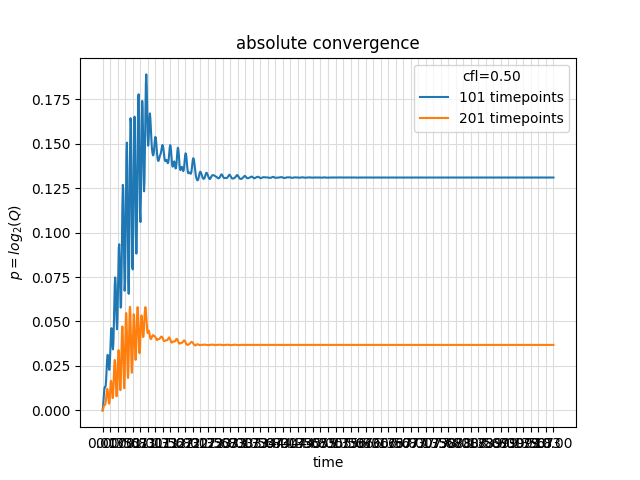
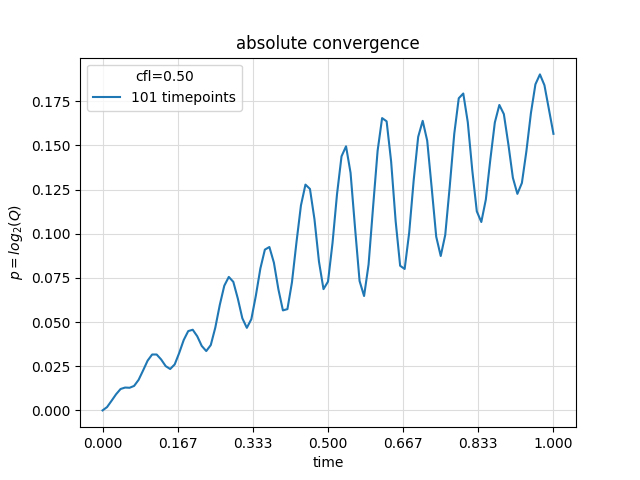
test_convergence_for_open

Changed region(s): [[0.0312, 0.125, 0.9062, 0.9375], [0.0312, 0.75, 0.125, 0.7812]]

diff --git a/python/waveconvergence_2.py b/python/waveconvergence_2.py
@@ -61,20 +61,20 @@ def abs_convergence(ana,num1,num2):
 
 #---------------main function -------------------------------------------
 
-def convergence_test(cfl,Nt,bc,endT=1,endX=1):
+def convergence_test(cfl,Nt,bc,funchandle,endT=1,endX=1):
     Nx = int(cfl*Nt/endT)
 
     # num1
-    dt,timevalues,dx,xvalues = gridmaker(endT, Nt, endX, Nx)
+    dt,timevalues,dx,xvalues = gridmaker1(endT, Nt, endX, Nx)
     # print('xvalues\n',xvalues)
     potential = zero_potential(xvalues)
-    Phi0, Pi0 = IVmaker('gauss',xvalues,1,1,1,1)
+    Phi0, Pi0 = IVmaker(funchandle,xvalues,1,1,1,1)
     Phi, Pi = wave_evolution1D(Phi0,Pi0,timevalues,xvalues,bc,potential)
     num1 = Phi[0::1]
     # print('num1(t=0):\n',num1[0])
     # print('timevalues:\n', timevalues )
-    print('timevalue for t=1', timevalues[int(Nt/endT)] )
-    print('num1(t= ',timevalues[int(Nt/endT)],' ):\n',num1[int(Nt/endT)])
+    # print('timevalue for t=1', timevalues[int(Nt/endT)] )
+    # print('num1(t= ',timevalues[int(Nt/endT)],' ):\n',num1[int(Nt/endT)])
     # print('shape(num1): ', np.shape(num1))
     # # print('shape(timevalues1): ',np.shape(timevalues[0::1]))
     # print('timevalues1:', timevalues)
@@ -86,19 +86,19 @@ def convergence_test(cfl,Nt,bc,endT=1,endX=1):
             ana[i,j] = sine_12_pi(xvalues[j],timevalues[i])
 
     # num 2
-    dt,timevalues,dx,xvalues = gridmaker(endT, 2*Nt, endX, 2*Nx)
+    dt,timevalues,dx,xvalues = gridmaker1(endT, 2*Nt, endX, 2*Nx)
     potential = zero_potential(xvalues)
-    Phi0, Pi0 = IVmaker('sine4',xvalues,1,1,1,1)
-    Phi, Pi = wave_evolution1D(Phi0,Pi0,timevalues,xvalues,bc,potential)
+    Phi0, Pi0 = IVmaker(funchandle,xvalues,1,1,1,1)
+    Phi, Pi = wave_evolution1D(Phi0,Pi0,timevalues,xvalues,bc,potential,)
     num2 = Phi[0::2,0::2]
     # print('shape(num2): ', np.shape(num2))
     # # print('shape(timevalues2): ',np.shape(timevalues[0::2]))
     # print('timevalues2:\n', timevalues)
 
     # num3
-    dt,timevalues,dx,xvalues = gridmaker(endT, 4*Nt, endX, 4*Nx)
+    dt,timevalues,dx,xvalues = gridmaker1(endT, 4*Nt, endX, 4*Nx)
     potential = zero_potential(xvalues)
-    Phi0, Pi0 = IVmaker('sine4',xvalues,1,1,1,1)
+    Phi0, Pi0 = IVmaker(funchandle,xvalues,1,1,1,1)
     Phi, Pi = wave_evolution1D(Phi0,Pi0,timevalues,xvalues,bc,potential)
     num3 = Phi[0::4,0::4]
     # print('shape(num2): ', np.shape(num2))
@@ -110,17 +110,18 @@ def convergence_test(cfl,Nt,bc,endT=1,endX=1):
 
 if __name__ == "__main__":
     cfl = 0.5
-    endT = 10
+    endT = 1
     endX = 1
-    tests = 5
-    bc = 'periodic'
+    tests = 1
+    bc = 'open_iii'
     Nt_step = 100
     k = 0         # k+Nt_step: starting value for Nts
     Nt = np.linspace(endT*(k+Nt_step),endT*(k+Nt_step*tests),tests)
     selfQs = []
     absQs = []
+    fhandle = "sine4"
     for i in range(len(Nt)):
-        selfQ, absQ = convergence_test(cfl,int(Nt[i]),bc,endT,endX)
+        selfQ, absQ = convergence_test(cfl,int(Nt[i]),bc,fhandle,endT,endX)
         selfQs.append(selfQ)
         absQs.append(absQ)
     fig1 = self_convergence_plotting_2(cfl, Nt, selfQs, endT)

diff --git a/python/solver.py b/python/solver.py
@@ -12,12 +12,12 @@ coeffDict = {2:[1,-2,1],4:[-1/12,4/3,-5/2,4/3,-1/12], 6:[1/90,-3/20,3/2,-49/18,3
 # d Pi / d t = c^2 d^2 phi / d x^2
 
 ### discretize time and space with uniform grid
-def gridmaker(endT,nt,endX,nx,startX=0,startT=0):
+def gridmaker1(endT,nt,endX,nx,startX=0,startT=0):
   dt = (endT-startT)/(nt)
   timevalues = np.linspace(startT,endT,nt+1)
   dx = (endX-startX)/(nx)
   xvalues = np.linspace(startX,endX,nx+1)
-  print('dt = %.2f (%.f points), dx = %.2f (%.f points)' %(dt,nt,dx,nx))
+  print('dt = %.3f (%.f points), dx = %.3f (%.f points)' %(dt,nt,dx,nx))
   return dt,timevalues,dx,xvalues
 
 def gridmaker(endT,maxX,courant=1):
@@ -35,7 +35,7 @@ def gridmaker(endT,maxX,courant=1):
 
 
 
-def wave_evolution1D(phi0,Pi0,timevalues,xvalues,bc,potential,order):
+def wave_evolution1D(phi0,Pi0,timevalues,xvalues,bc,potential,order=2):
   if bc != "periodic" and order != 2:
       print("for this accuracy order we only implemented 'periodic' boundary conditions, results may not be correct.")
   binomcoeffs = coeffDict[order]
@@ -82,10 +82,10 @@ def wave_evolution1D(phi0,Pi0,timevalues,xvalues,bc,potential,order):
       Pi[0] = Pi[2] - 2*phi[1] * deltax/c
       Pi[-1] = Pi[-3] - 2*phi[-2] * deltax/c
     elif bc == "open_iii":         # variant (iii)
-      phi[0] = - deltax*(2*Pi[1] - Pi[2])/c + phi[1]
-      phi[-1] = - deltax*(2*Pi[-2] - Pi[-3])/c + phi[-2]
-      Pi[0] = (phi[0] - phi[1])/deltax
-      Pi[-1] = (phi[-1] - phi[-2])/deltax
+      phi[0] =  - deltax*(2*Pi[1] - Pi[2])/c + phi[1]
+      phi[-1] =  - deltax*(2*Pi[-2] - Pi[-3])/c + phi[-2]
+      Pi[0] =  (phi[0] - phi[1])/deltax #(2 * phi[1] - phi[2])/deltax + Pi[1] #
+      Pi[-1] = (phi[-1] - phi[-2])/deltax # (2 * phi[-2] - phi[-3])/deltax + Pi[-2] # 
 
     # compute second spatial derivative (d^2 phi / dx^2) with FiniteDifferencing
     d2phidx2= np.zeros(Nx+order)
@@ -150,4 +150,3 @@ def PT_potential(xvalues,depth,kappa):
 
 def zero_potential(xvalues):
     return np.zeros_like(xvalues)
-

diff --git a/python/main.py b/python/main.py
@@ -4,7 +4,7 @@ from results_plotting import *
 
 # -------------------- now, do it ---------------
 if __name__ == "__main__":
-    endT = 2
+    endT = 1
     Nt = 200
     startX = 0
     endX = 1
@@ -20,7 +20,7 @@ if __name__ == "__main__":
     kappa = 0.1 # width
 
 # -------------------- now, do it ---------------
-    deltat, timevalues, deltax, xvalues = gridmaker(endT,Nt,endX,Nx,startX)
+    deltat, timevalues, deltax, xvalues = gridmaker1(endT,Nt,endX,Nx,startX)
     courant = c * deltat / deltax
     print("courant number = %.2f" % courant)
 
@@ -30,8 +30,8 @@ if __name__ == "__main__":
     # plot_potential(xvalues,potential)
 
     Phi0, Pi0 = IVmaker('gauss',xvalues,sigma,mu,width,k,ampl) # phi: Zeilen: Zeit, Spalten: Ort
-    bc = 'periodic'
-    order= 8
+    bc = 'open_iii'
+    order = 2
     Phi, Pi = wave_evolution1D(Phi0,Pi0,timevalues,xvalues,bc,potential,order)
     print("calculation finished.")
 
@@ -39,7 +39,7 @@ if __name__ == "__main__":
 
     ### Plotting the results
     # plot_energy_evolution(Etotal,timevalues)
-    # plot_xt_evolution_heatmap(timevalues,xvalues,Phi)
+    plot_xt_evolution_heatmap(timevalues,xvalues,Phi)
     # xindex = 225
     # plot_amplitude_evolution(timevalues,Phi[:,xindex],xvalues[xindex])
     # tindex = 290
